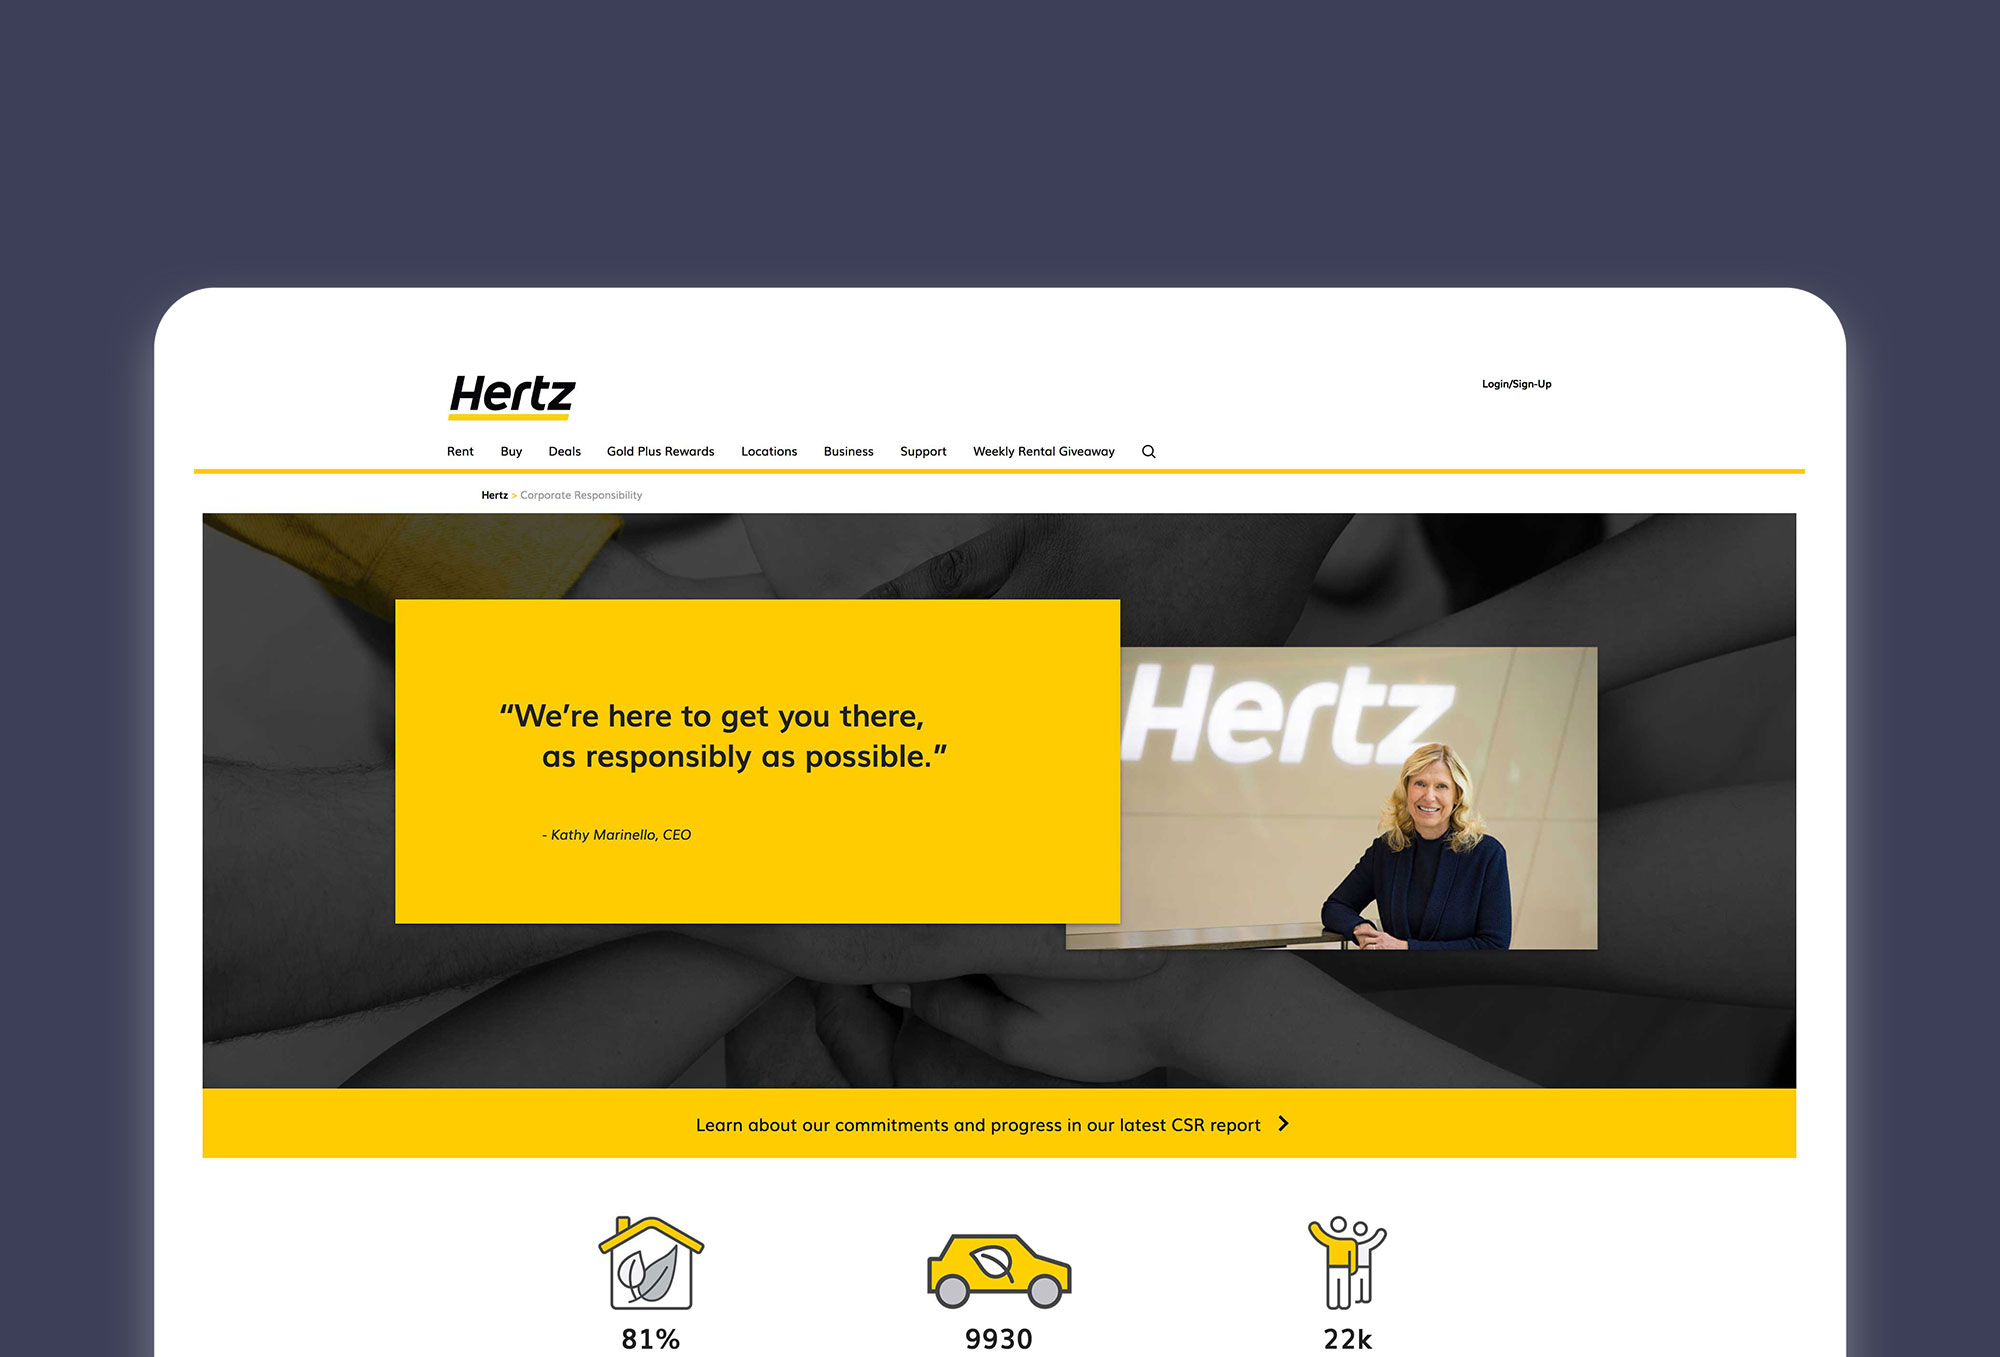
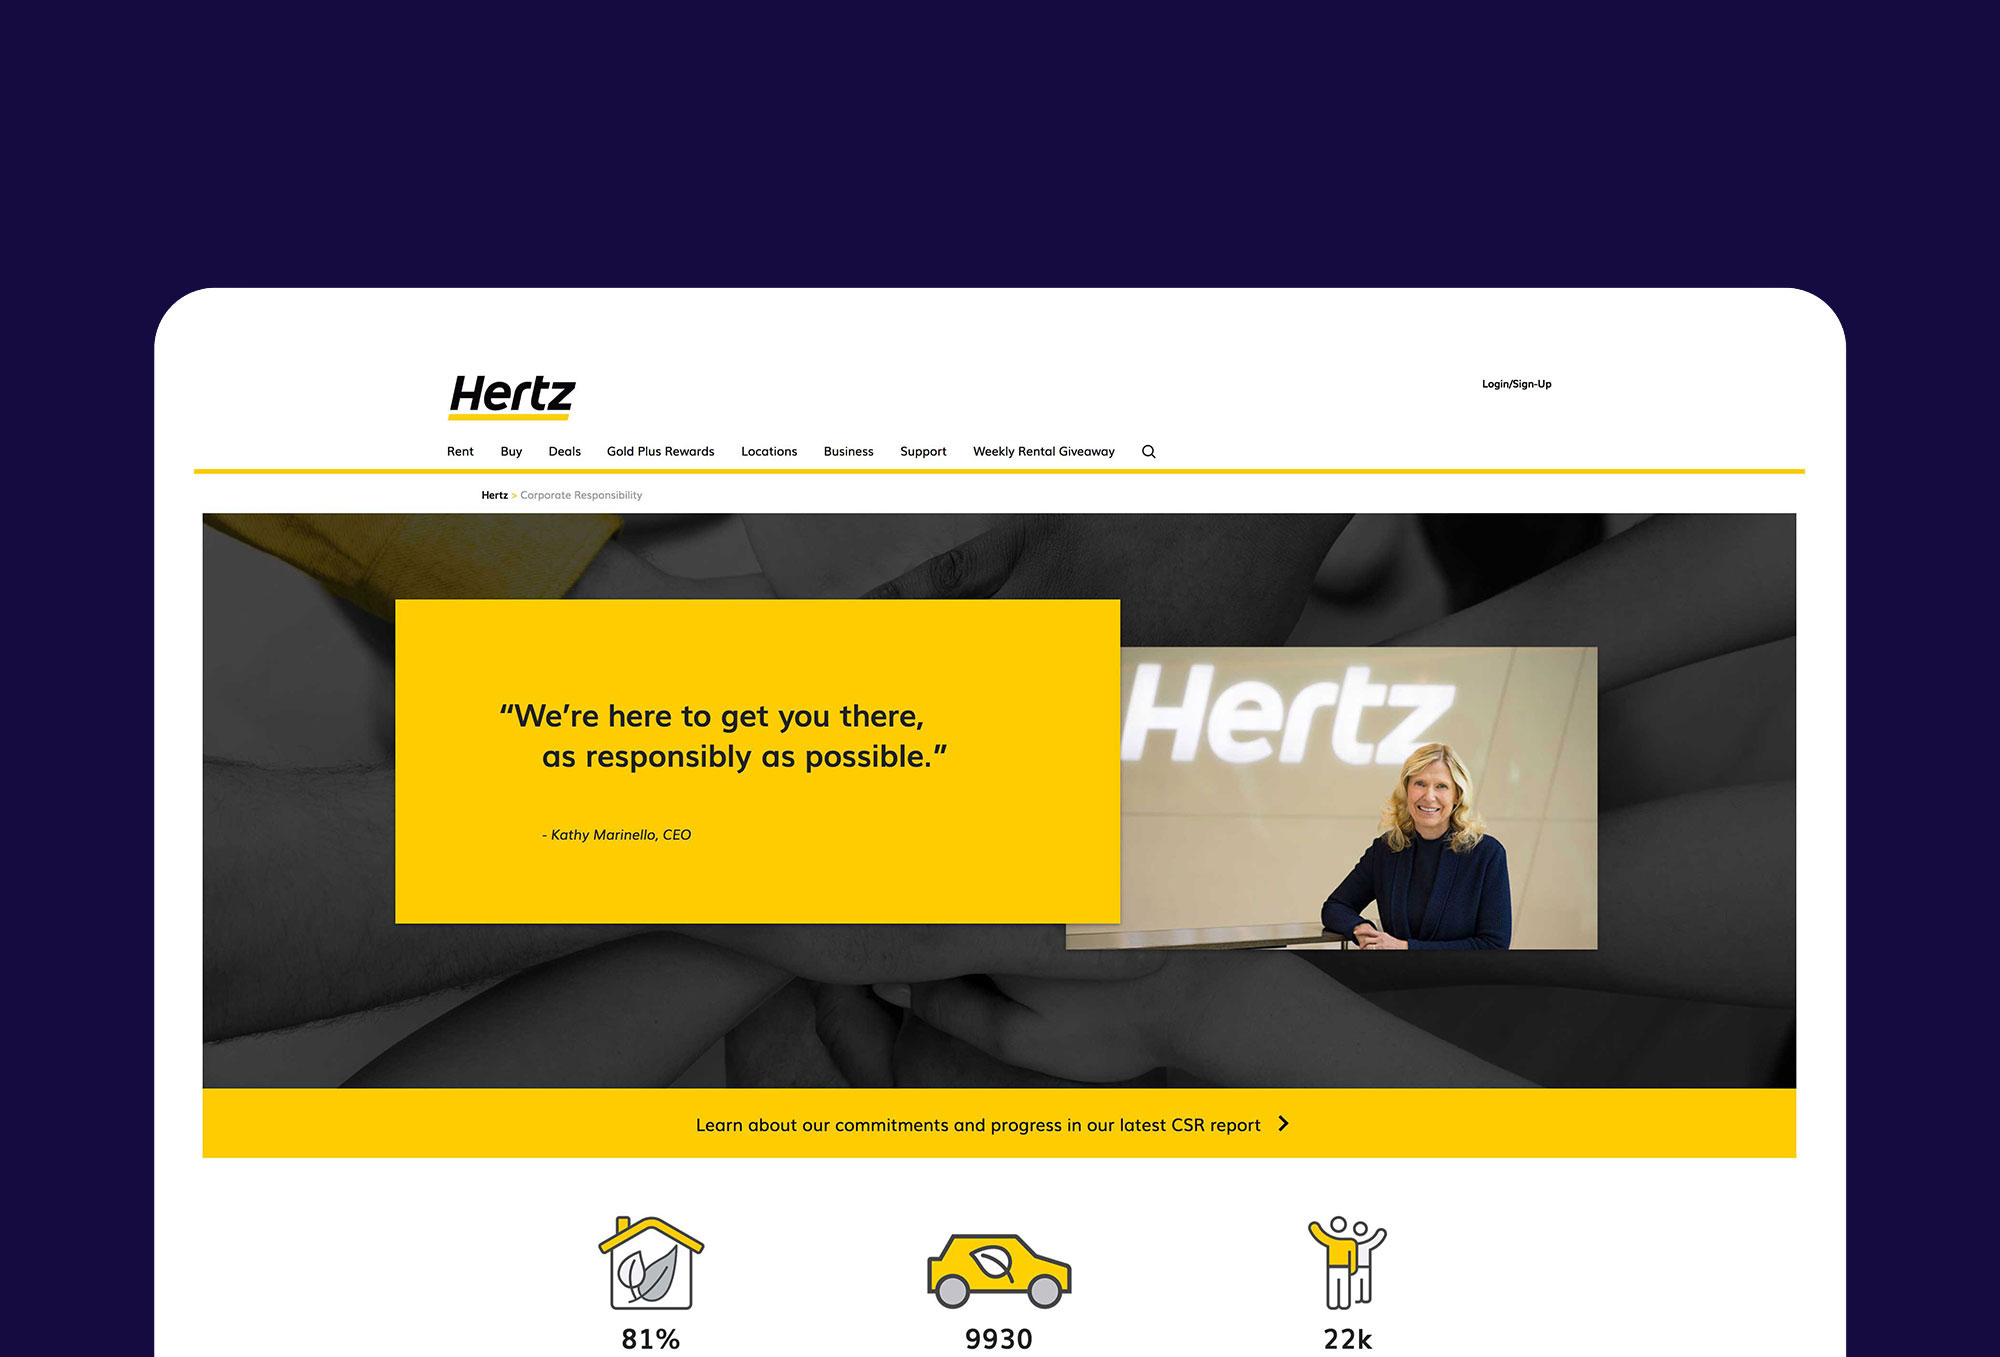
images

diff --git a/hertz-mobile-app.html b/hertz-mobile-app.html
@@ -159,7 +159,7 @@
                </div>
                <!-- END ARTICLE -->
                <!-- START ARTICLE -->
-               <div class="card article" style="background-color: #150b41; padding-bottom: 0px;">
+               <div class="card article" style="background-color: #3c3f58; padding-bottom: 0px;">
                   <div class="card-content" style="padding-bottom: 0px;">
                      <div class="media">
                         <div class="media-content has-text-centered">
@@ -363,7 +363,7 @@
               </script>
              
                <!-- START ARTICLE -->
-               <div class="card article" style="background-color: #150b41; color: white; padding-bottom: 0px;">
+               <div class="card article" style="background-color: #3c3f58; color: white; padding-bottom: 0px;">
                   <div class="card-content" style="padding-bottom: 0px;">
                      <div class="media">
                         <div class="media-content has-text-centered">
